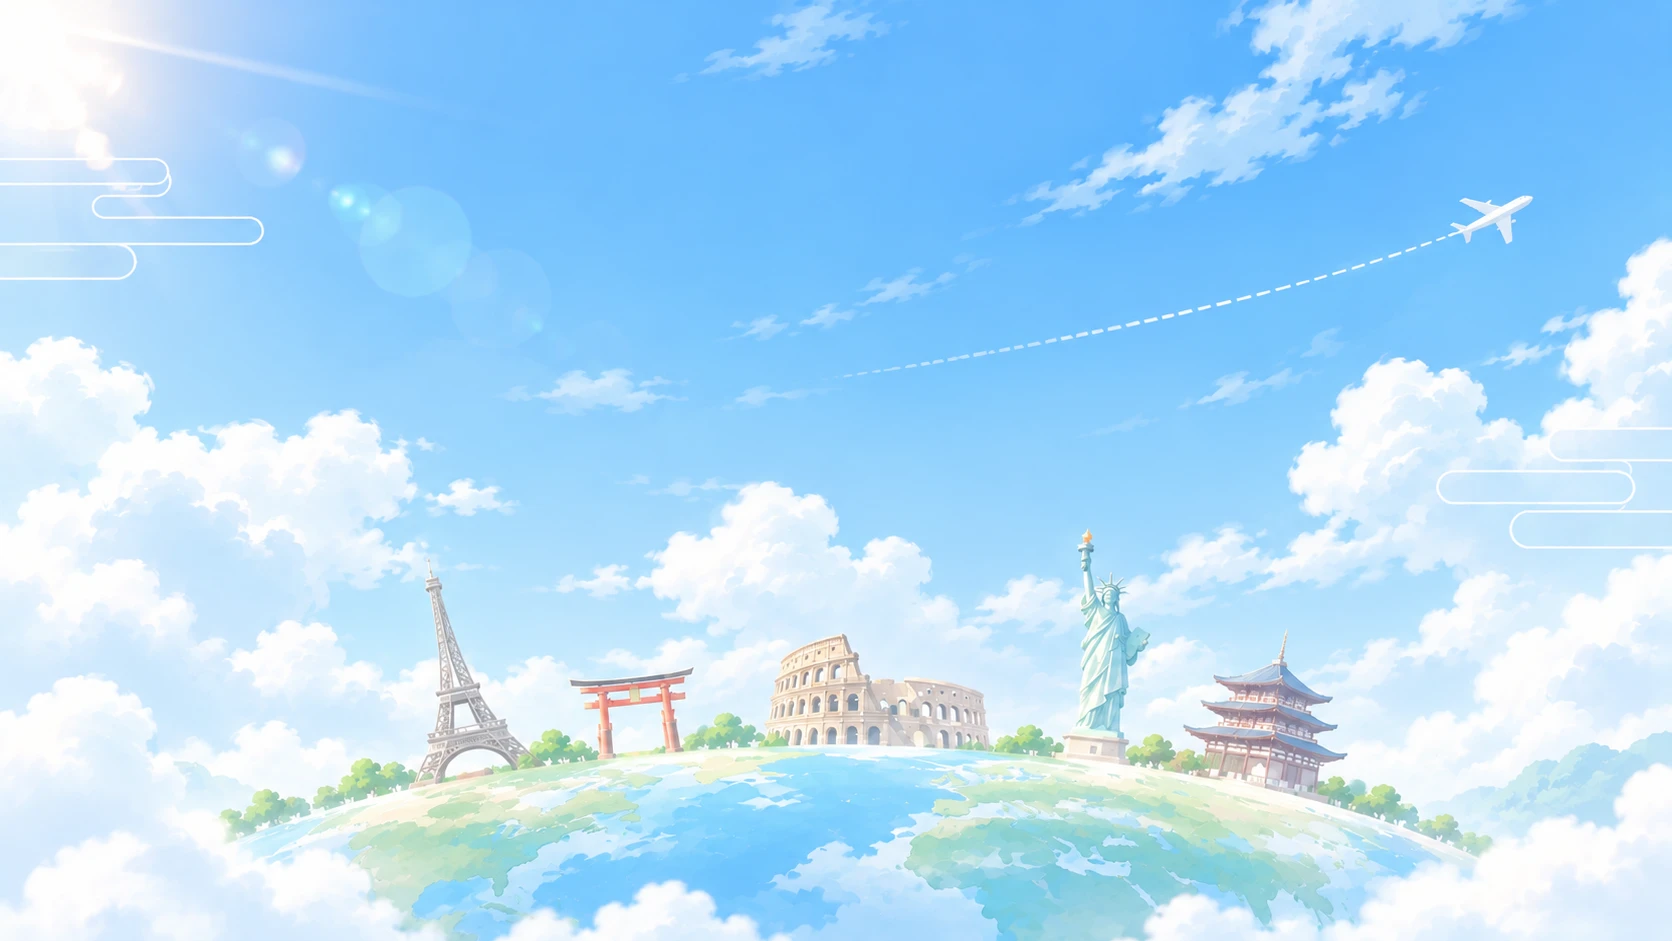
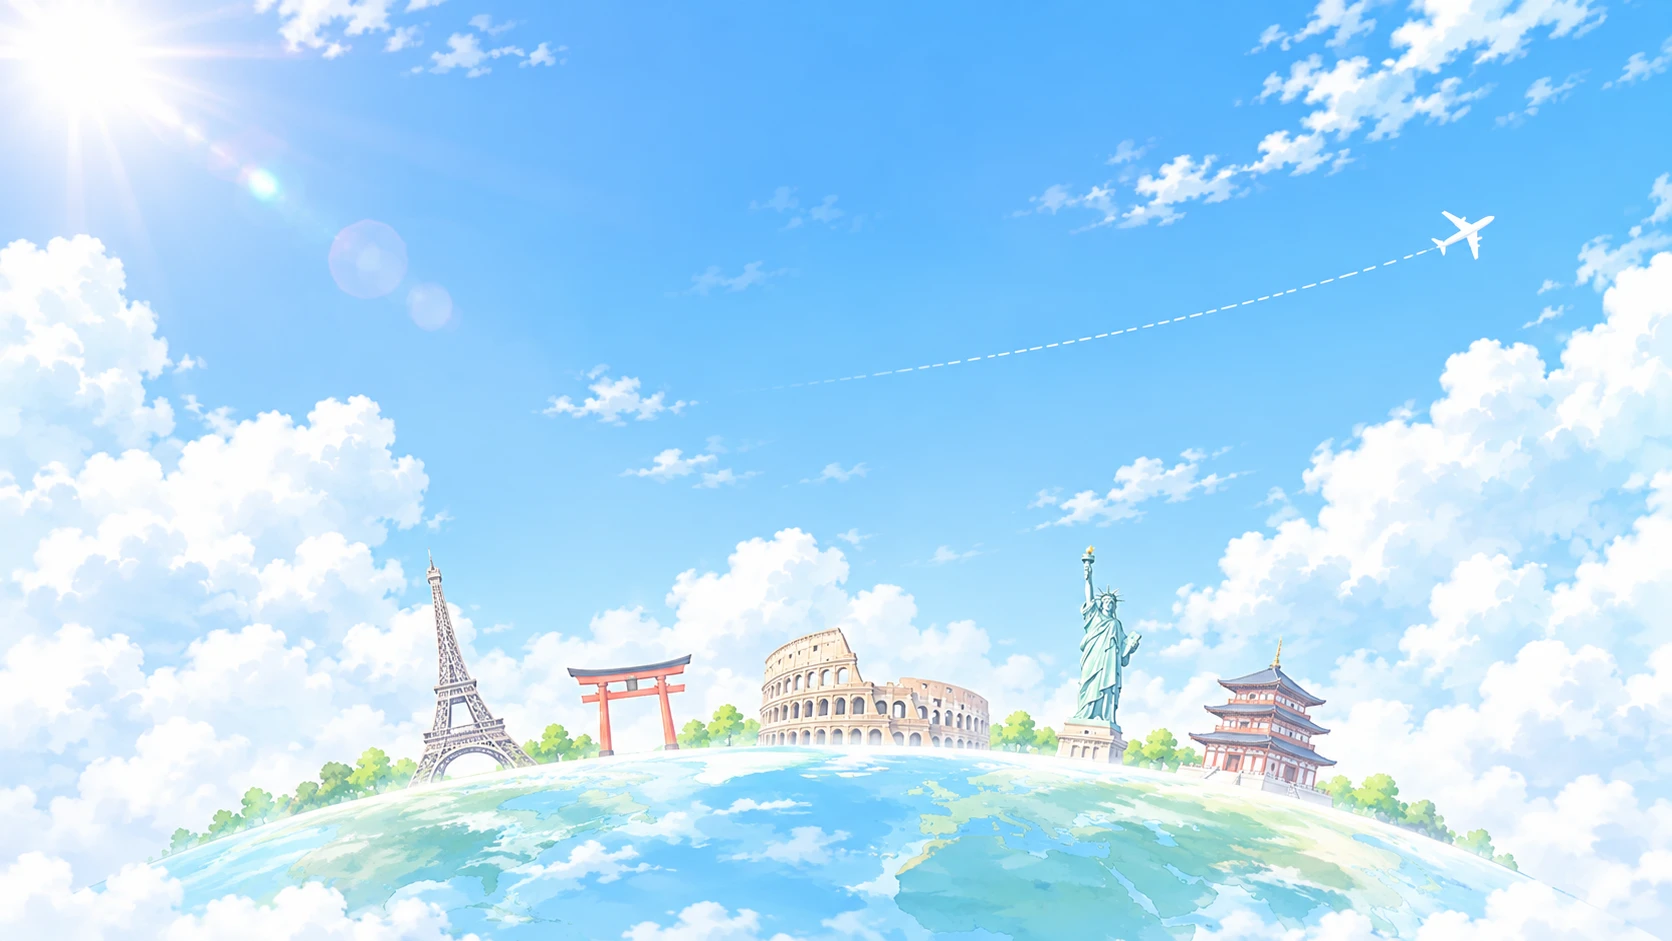
docs: C9 킥오프 고침 (F26 담당 hyunw0000, 하늘 배경 이미지 교체)

diff --git a/docs/01-PRD.md b/docs/01-PRD.md
@@ -185,7 +185,7 @@ R-01~R-09에 없는 모든 기능.
 | 2 | F23 | 상단바 통일: 로고와 사이트 이름은 왼쪽 위에 고정. 계정·로그아웃·공유는 프로필 버튼 하나로 합치고 여행 목록·매거진·지도가 같은 UI를 쓴다. 매거진에서는 매거진/지도 버튼이 프로필 왼쪽에 온다 | 5 |
 | 보류 | F12 | 지도: 내 위치 → 핀 경로, 실시간 내 위치 연동. C9에서도 진행하지 않는다 | |
 
-- 담당: 1단계 F24·F26 haeans, F27·F28 hyunw0000, F25 leedaekeon578. 2단계 디자인(F21·F23) 담당은 미정이다.
+- 담당: 1단계 F24 haeans, F26·F27·F28 hyunw0000, F25 leedaekeon578. 2단계 디자인(F21·F23) 담당은 미정이다.
 - DB 변경은 없다. 동행 인원 칸(`trips.companions`)은 지우지 않고 정산 인원 저장에 쓴다. 새 여행 필수 칸은 앱에서만 검사한다.
 - 브랜드 이미지(로고, 하늘 배경)는 저장소 `public/brand/`에 두고 `02-FRONTEND.md` 7절에 기록한다.
 
